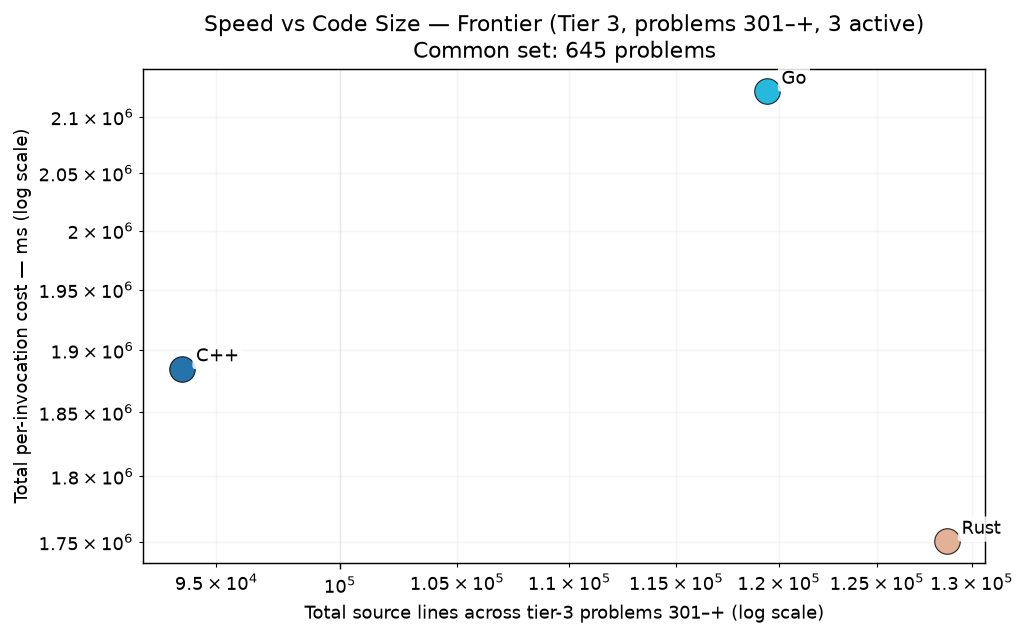
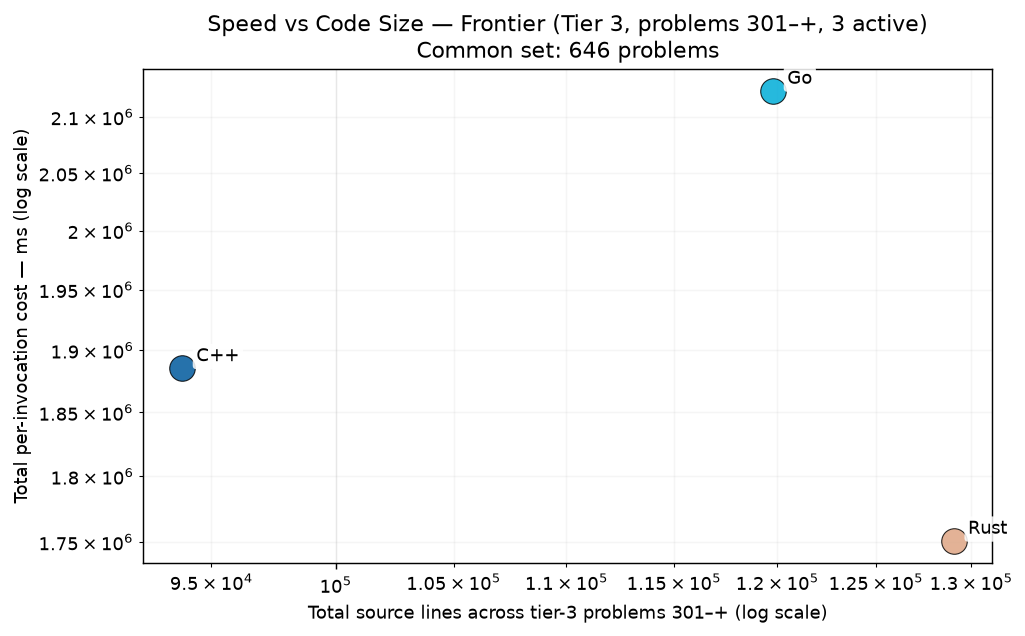
cpp p0805

diff --git a/RESULTS.md b/RESULTS.md
@@ -1,6 +1,6 @@
 # Project Euler — Cross-Language Benchmarks
 
-> **Scope: 4521 in-scope cells across 1007 problems × tiered languages — 4396 measured (97.2% coverage).**
+> **Scope: 4521 in-scope cells across 1007 problems × tiered languages — 4397 measured (97.3% coverage).**
 > The cross-language ranking below is computed over the **200-problem common set** (problems in 1-200 where every language has a passing measurement) — the apples-to-apples Foundation comparison surface.  Per-tier rankings and coverage detail appear further below.
 > Growing carefully — each new problem and language is audited for state-leak
 > safety, verified for answer correctness, and added only when it cleanly fits the
@@ -70,15 +70,15 @@ Same scatter as the Foundation chart, restricted to the tier-2 active languages 
 
 The frontier verification trio — C++, Go, Rust — on problems above 300. 3-way cross-language agreement is the verification protocol (strictly stronger than 2-way; see JOURNEY.md "Tier Reframing" episode for the p254 lesson that motivated it). Python and Zig are explicitly out of this tier — python's wall cost makes it impractical at level 5+, and zig's role caps at Tier 2.
 
-### Per-Invocation Cost (Common Set, 645 of ≤707 problems in scope)
+### Per-Invocation Cost (Common Set, 646 of ≤707 problems in scope)
 
 ![Per-Invocation Cost — Tier 3](charts/per_iter_total_tier3.png)
 
-| Rank | Language | Geomean (645-problem common set) | Total (sum) | Lines of code | vs Fastest |
+| Rank | Language | Geomean (646-problem common set) | Total (sum) | Lines of code | vs Fastest |
 |------|----------|--------------------:|------------:|--------------:|-----------:|
-| 1 | **Rust** | 74.24 ms | 1750.63 s | 128,685 | 1.00× |
-| 2 | **C++** | 76.94 ms | 1885.04 s | 93,638 | 1.04× |
-| 3 | **Go** | 87.48 ms | 2123.30 s | 119,410 | 1.18× |
+| 1 | **Rust** | 74.13 ms | 1750.66 s | 129,064 | 1.00× |
+| 2 | **C++** | 76.99 ms | 1885.15 s | 93,851 | 1.04× |
+| 3 | **Go** | 87.27 ms | 2123.32 s | 119,784 | 1.18× |
 
 ### Speed vs Code Size
 
@@ -264,7 +264,7 @@ table never silently mixes versions (METHODOLOGY.md §4).  Current state of the
 |----------|-----------|------:|---------------|
 | **ARM64** | `Apple clang version 21.0.0 (clang-2100.1.1.101)` | 200 | 2026-07-30 |
 | **C** | `Apple clang version 21.0.0 (clang-2100.1.1.101)` | 200 | 2026-07-30 |
-| **C++** | `Apple clang version 21.0.0 (clang-2100.1.1.101)` | 946 | 2026-09-05 |
+| **C++** | `Apple clang version 21.0.0 (clang-2100.1.1.101)` | 947 | 2026-09-05 |
 | **C#** | `10.0.101` | 200 | 2026-07-30 |
 | **Go** | `go version go1.26.5 darwin/arm64` | 948 | 2026-09-05 |
 | **Java** | `openjdk version "21.0.2" 2024-01-16 LTS` | 200 | 2026-07-30 |

diff --git a/per_problem/per_problem_0801-0900.md b/per_problem/per_problem_0801-0900.md
@@ -12,7 +12,7 @@ in tier-1 display order (native → managed → interpreted).
 | **p0802** | 36.07 ms | 93.92 ms | 39.15 ms |
 | **p0803** | 463.88 ms | 359.22 ms | 578.52 ms |
 | **p0804** | 225.33 ms | 250.71 ms | 192.56 ms |
-| **p0805** | — | 27.52 ms | 18.04 ms |
+| **p0805** | 113.57 ms | 27.52 ms | 18.04 ms |
 | **p0806** | — | 220.58 ms | — |
 | **p0807** | — | 4.86 ms | — |
 | **p0808** | 15.91 ms | 169.86 ms | — |
